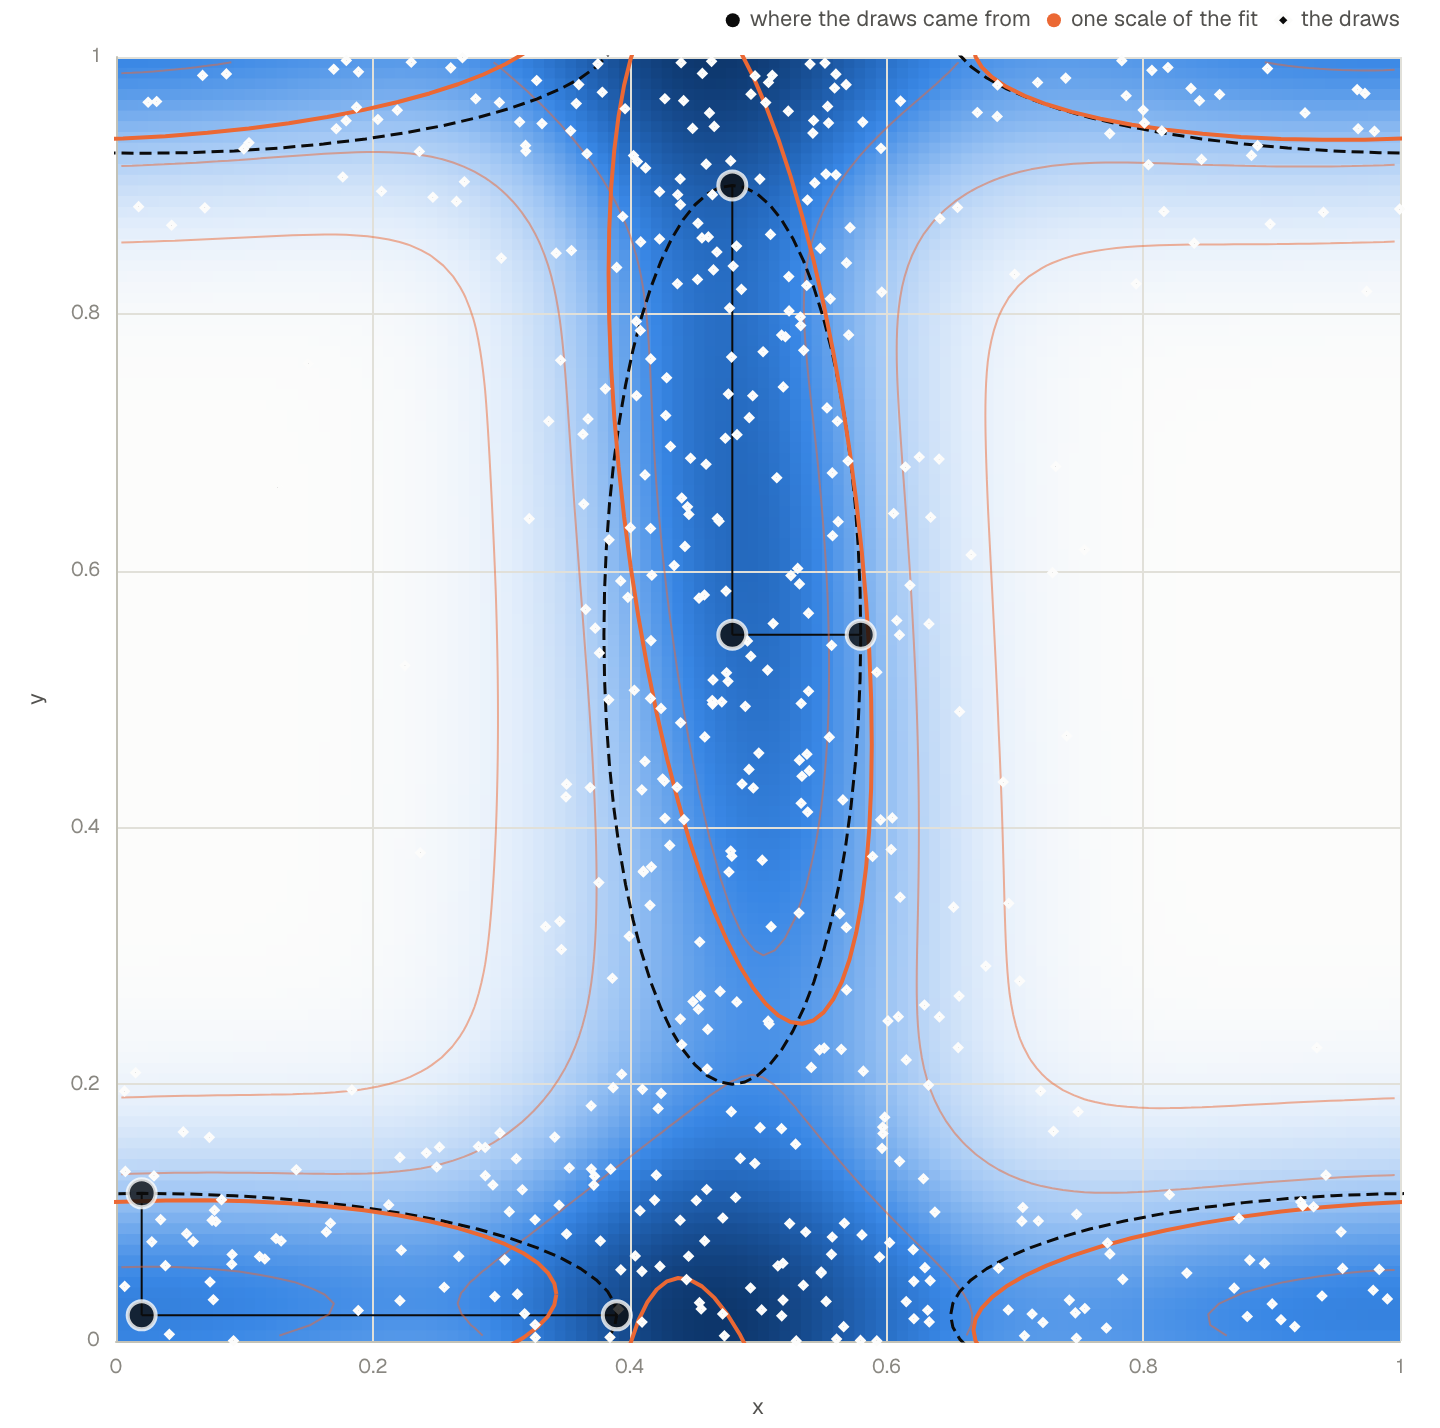
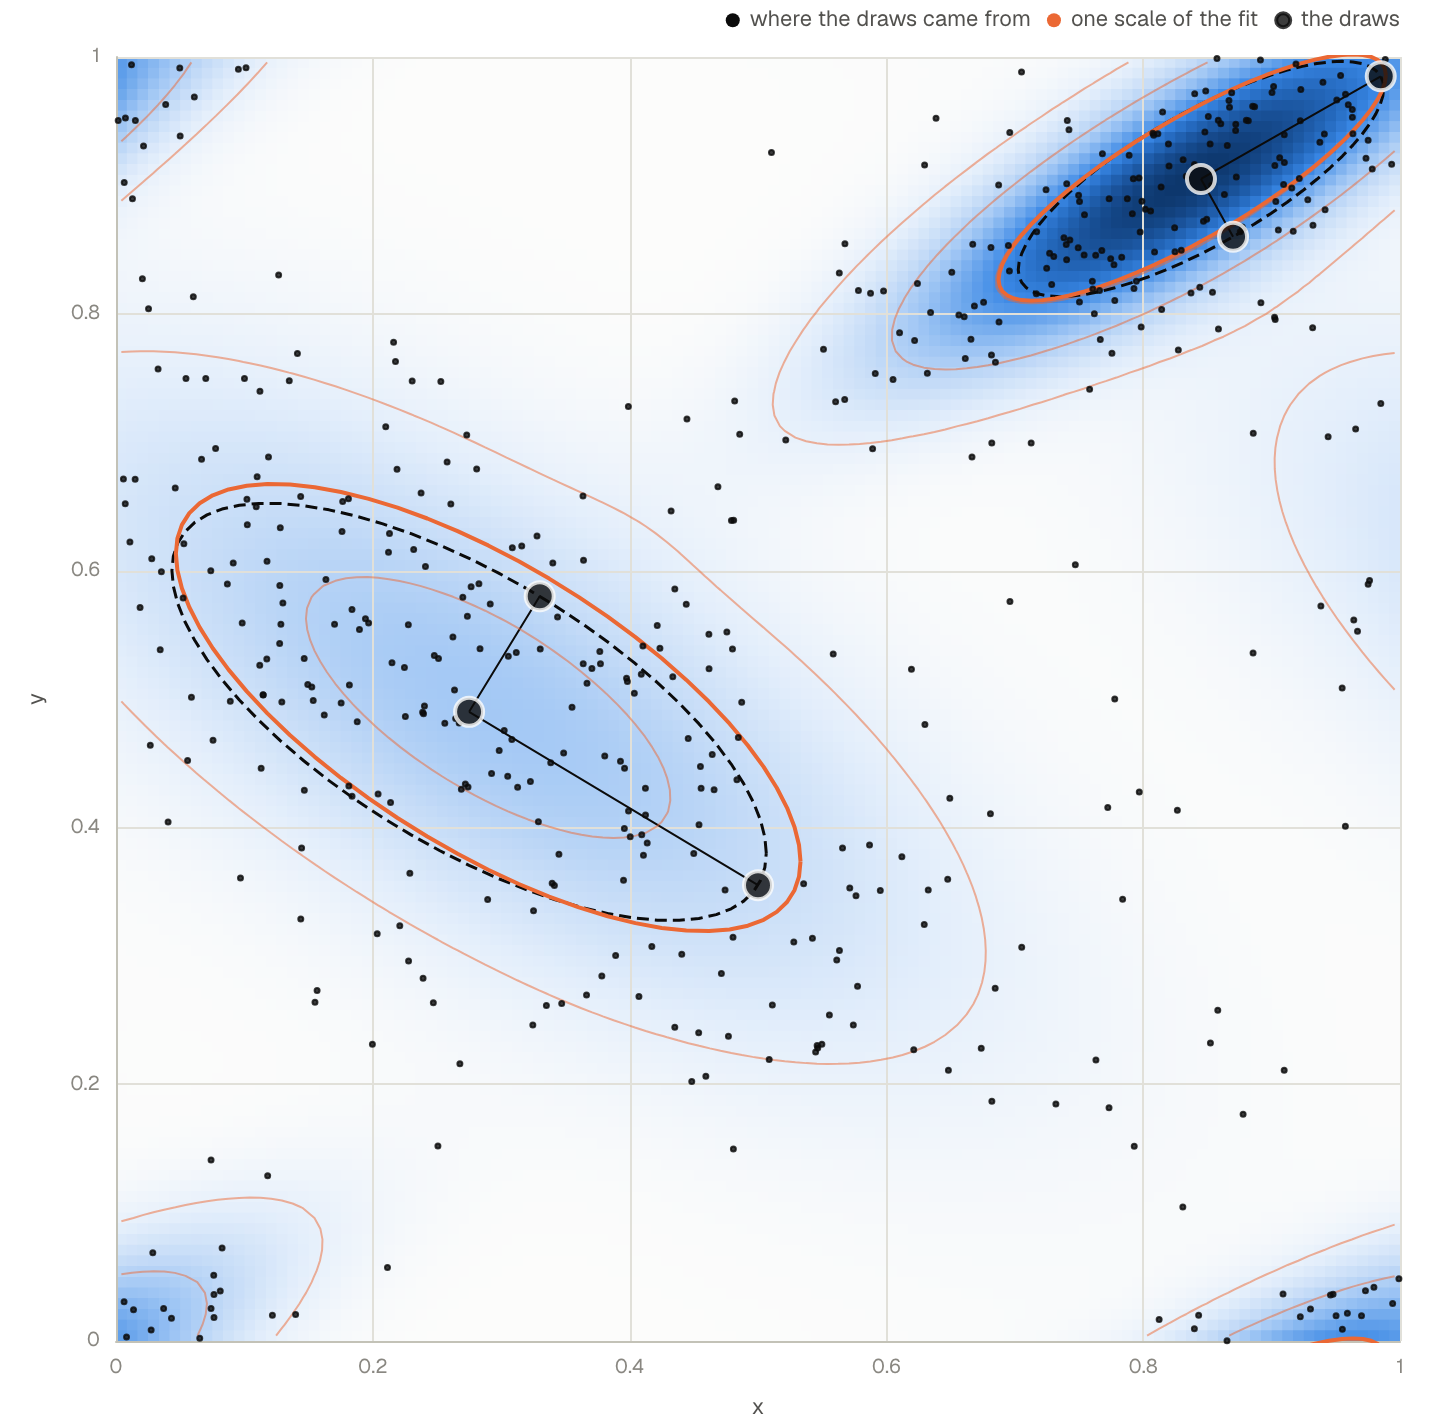
Fix the torus figure's reset, its scatter and its restarts
Reset was being undone by the handle reconciliation, which reads a
change as a drag: a reset moves all twelve values at once, so the means
read as dragged and the tips were shifted by how far the means had
come. It reconciles only when exactly one handle moves now, and leaves
anything larger alone.

The draws were drawn with `emphasis`, which fills a marker with the
page colour and left them white on white. They take the engine's ink
instead, dark on light and white on dark.

Dragging a shape restarted the fit on every pointer move and threw each
run away a few steps in. The charts still follow the pointer and the
fit waits for the drag to settle. The buttons also stop wrapping one at
a time, which was stranding Reset on a line of its own.

The default shapes are two tilted components, one of them in a corner
so it wraps all four ways, which is a better first look than two
axis-aligned bars, and the thumbnail is retaken from it.

Claude-Session: https://claude.ai/code/session_01JrCMbShb78JdCb6FKoPdKq

diff --git a/content/notes/2026-10-circular-statistics-without-circular-distributions/Torus.tsx b/content/notes/2026-10-circular-statistics-without-circular-distributions/Torus.tsx
@@ -16,6 +16,8 @@ import {
   shifts,
   trainer,
 } from "./circular-2d";
+import { chrome } from "aifn-render/design";
+import { useSettled } from "./use-training";
 import { useTheme } from "@/hooks/use-theme";
 
 /**
@@ -59,23 +61,23 @@ export function Torus() {
   const state = useFigureState({
     // Everything about the two generating components is dragged on the chart,
     // so none of these draws a control of its own.
-    // Two long thin components at right angles to each other, both axis
-    // aligned: one standing up in the middle of the square, one lying along
-    // the bottom edge from the corner, so it wraps both ways. Every handle is
-    // on the chart and can be taken hold of.
-    m1h: slider(0, G1, 0.48, { step: 0.005, onChart: true, label: "first mean, x" }),
-    m1d: slider(0, G2, 0.55, { step: 0.005, onChart: true, label: "first mean, y" }),
-    a1h: tip(0.58, "first axis, x", G1),
-    a1d: tip(0.55, "first axis, y", G2),
-    b1h: tip(0.48, "second axis, x", G1),
-    b1d: tip(0.9, "second axis, y", G2),
+    // Two tilted components: a broad one across the middle and a narrower one
+    // in the top corner, which wraps round all four. Both are off the axes, so
+    // the covariance is doing something, and every handle sits inside the
+    // square where it can be taken hold of.
+    m1h: slider(0, G1, 0.275, { step: 0.005, onChart: true, label: "first mean, x" }),
+    m1d: slider(0, G2, 0.49, { step: 0.005, onChart: true, label: "first mean, y" }),
+    a1h: tip(0.5, "first axis, x", G1),
+    a1d: tip(0.355, "first axis, y", G2),
+    b1h: tip(0.33, "second axis, x", G1),
+    b1d: tip(0.58, "second axis, y", G2),
 
-    m2h: slider(0, G1, 0.02, { step: 0.005, onChart: true, label: "second mean, x" }),
-    m2d: slider(0, G2, 0.02, { step: 0.005, onChart: true, label: "second mean, y" }),
-    a2h: tip(0.39, "third axis, x", G1),
-    a2d: tip(0.02, "third axis, y", G2),
-    b2h: tip(0.02, "fourth axis, x", G1),
-    b2d: tip(0.115, "fourth axis, y", G2),
+    m2h: slider(0, G1, 0.845, { step: 0.005, onChart: true, label: "second mean, x" }),
+    m2d: slider(0, G2, 0.905, { step: 0.005, onChart: true, label: "second mean, y" }),
+    a2h: tip(0.985, "third axis, x", G1),
+    a2d: tip(0.985, "third axis, y", G2),
+    b2h: tip(0.87, "fourth axis, x", G1),
+    b2d: tip(0.86, "fourth axis, y", G2),
 
     weight: slider(0.05, 0.95, 0.6, { step: 0.05, label: "weight on the first" }),
     components: slider(1, 4, 2, { step: 1, label: "components fitted" }),
@@ -128,6 +130,14 @@ export function Torus() {
     for (const c of ["1", "2"]) {
       const [mh, md, ah, ad, bh, bd] = [`m${c}h`, `m${c}d`, `a${c}h`, `a${c}d`, `b${c}h`, `b${c}d`];
       const mean = [now[mh] as number, now[md] as number] as const;
+
+      // A drag moves one handle. Anything that moves several at once is a
+      // reset or a value read back from the URL, and reconciling it would
+      // carry the old positions into the new ones: reset used to put the means
+      // back and then shift the tips by how far the means had come.
+      const parts = [moved(mh, md), moved(ah, ad), moved(bh, bd)].filter(Boolean).length;
+      if (parts !== 1) continue;
+
       if (moved(mh, md)) {
         const dh = (now[mh] as number) - (prev[mh] as number);
         const dd = (now[md] as number) - (prev[md] as number);
@@ -200,9 +210,11 @@ export function Torus() {
   // sample cannot come out ahead of the density that produced it.
   const test = useMemo(() => sample(truth, 2000, 1000 + state.seed), [truth, state.seed]);
 
+  // The charts follow the pointer; the fit waits until it has stopped.
+  const toFit = useSettled(draws);
   const build = useCallback(
-    () => trainer(draws, { components: state.components, seed: state.seed, diagonal: state.diagonal }),
-    [draws, state.components, state.diagonal, state.seed],
+    () => trainer(toFit, { components: state.components, seed: state.seed, diagonal: state.diagonal }),
+    [toFit, state.components, state.diagonal, state.seed],
   );
 
   const [fitter, setFitter] = useState(build);
@@ -288,6 +300,9 @@ export function Torus() {
     ],
   );
 
+  // The theme's ink, one entry per point, which is how `Points` takes a colour.
+  const ink = useMemo(() => draws[0].map(() => chrome(resolved === "dark" ? "dark" : "light").ink), [draws, resolved]);
+
   const span = state.tiles;
   // Equal units, so a circle is drawn as a circle and an ellipse's tilt means
   // what it looks like it means.
@@ -307,20 +322,24 @@ export function Torus() {
         state={state}
         controls={
           <ControlGroup title="fitting">
-            <div className="flex flex-wrap items-center gap-3">
-              <Button size="sm" variant="outline" onClick={() => setRunning(!running)} disabled={steps >= STEPS}>
-                {running ? <Pause /> : <Play />}
-                {running ? "Pause" : "Continue"}
-              </Button>
-              <Button size="sm" variant="ghost" onClick={() => setFitter(build())}>
-                <RotateCcw /> Again
-              </Button>
-              {/* `Again` refits what is on screen; this puts the controls back
-                  where they started, which a figure with six draggable handles
-                  needs rather more than most. */}
-              <Button size="sm" variant="ghost" onClick={() => state.reset()} disabled={state.isDefault}>
-                <Undo2 /> Reset
-              </Button>
+            <div className="flex flex-wrap items-center gap-x-3 gap-y-2">
+              {/* The buttons stay on one line together: letting them wrap
+                  individually left Reset stranded on a line of its own. */}
+              <div className="flex shrink-0 items-center gap-3">
+                <Button size="sm" variant="outline" onClick={() => setRunning(!running)} disabled={steps >= STEPS}>
+                  {running ? <Pause /> : <Play />}
+                  {running ? "Pause" : "Continue"}
+                </Button>
+                <Button size="sm" variant="ghost" onClick={() => setFitter(build())}>
+                  <RotateCcw /> Again
+                </Button>
+                {/* `Again` refits what is on screen; this puts the controls
+                    back where they started, which a figure with six draggable
+                    handles needs rather more than most. */}
+                <Button size="sm" variant="ghost" onClick={() => state.reset()} disabled={state.isDefault}>
+                  <Undo2 /> Reset
+                </Button>
+              </div>
               <StatusText tone="muted">
                 {steps >= STEPS ? `fitted, ${STEPS} steps` : `fitting, step ${steps} of ${STEPS}`}
               </StatusText>
@@ -380,7 +399,10 @@ export function Torus() {
           {rings.map((ring, i) => (
             <Curve key={`fit-${i}`} name="one scale of the fit" x={ring[0]} y={ring[1]} slot={1} live />
           ))}
-          <Points name="the draws" x={draws[0]} y={draws[1]} size={3} emphasis />
+          {/* `emphasis` fills a marker with the page colour, which leaves the
+              draws white on a light background. These take the theme's ink
+              instead, so they are dark on light and white on dark. */}
+          <Points name="the draws" x={draws[0]} y={draws[1]} size={2.5} colors={ink} />
           <Segments name="its principal axes" segments={spokes} emphasis width={1} />
           {/* Six handles: a mean and two axis tips for each component. */}
           <Handle {...state.handle(["m1h", "m1d"], { label: "first" })} />

diff --git a/content/notes/2026-10-circular-statistics-without-circular-distributions/Explorer.tsx b/content/notes/2026-10-circular-statistics-without-circular-distributions/Explorer.tsx
@@ -38,7 +38,7 @@ export function Explorer() {
     two: toggle(true, "two components in the data"),
     // Only meaningful with two components, so it is hidden with one rather than
     // sitting there doing nothing.
-    weight: slider(0.05, 0.95, 0.6, { step: 0.05, label: "weight on the first", when: when("two", true) }),
+    weight: slider(0.05, 0.95, 0.8, { step: 0.05, label: "weight on the first", when: when("two", true) }),
     components: slider(1, 4, 2, { step: 1, label: "components fitted" }),
     n: slider(100, 2000, 500, { step: 100, label: "training draws n" }),
     seed: slider(0, 9, 0, { step: 1, label: "seed" }),
@@ -128,17 +128,19 @@ export function Explorer() {
           // controls "Configuration" as well and two panels under one word
           // reads as a mistake.
           <ControlGroup title="fitting">
-            <div className="flex flex-wrap items-center gap-3">
-              <Button size="sm" variant="outline" onClick={run.running ? run.pause : run.start} disabled={run.done}>
-                {run.running ? <Pause /> : <Play />}
-                {run.running ? "Pause" : "Continue"}
-              </Button>
-              <Button size="sm" variant="ghost" onClick={run.reset}>
-                <RotateCcw /> Again
-              </Button>
-              <Button size="sm" variant="ghost" onClick={() => state.reset()} disabled={state.isDefault}>
-                <Undo2 /> Reset
-              </Button>
+            <div className="flex flex-wrap items-center gap-x-3 gap-y-2">
+              <div className="flex shrink-0 items-center gap-3">
+                <Button size="sm" variant="outline" onClick={run.running ? run.pause : run.start} disabled={run.done}>
+                  {run.running ? <Pause /> : <Play />}
+                  {run.running ? "Pause" : "Continue"}
+                </Button>
+                <Button size="sm" variant="ghost" onClick={run.reset}>
+                  <RotateCcw /> Again
+                </Button>
+                <Button size="sm" variant="ghost" onClick={() => state.reset()} disabled={state.isDefault}>
+                  <Undo2 /> Reset
+                </Button>
+              </div>
               {pinned !== null && (
                 <Button size="sm" variant="ghost" onClick={() => setPinned(null)}>
                   <SkipForward /> Back to the end

diff --git a/content/notes/2026-10-circular-statistics-without-circular-distributions/use-training.ts b/content/notes/2026-10-circular-statistics-without-circular-distributions/use-training.ts
@@ -22,6 +22,23 @@ import type { Mixture, Trainer } from "./circular";
  * parameters over the run needs them, and reading them off the optimiser costs
  * nothing next to the held-out score computed beside it.
  */
+/**
+ * A value that lags its input until the input has been still for a moment.
+ *
+ * Dragging a handle changes the generating density on every pointer move, and
+ * starting a fit on each of those throws away the one before it after a few
+ * steps. Waiting for the drag to settle means the shapes follow the pointer
+ * while only the last of them is fitted.
+ */
+export function useSettled<T>(value: T, ms = 120): T {
+  const [settled, setSettled] = useState(value);
+  useEffect(() => {
+    const timer = window.setTimeout(() => setSettled(value), ms);
+    return () => window.clearTimeout(timer);
+  }, [ms, value]);
+  return settled;
+}
+
 export type Trace = { step: number; gap: number; loss: number; fit: Mixture }[];
 
 export type Run = {
